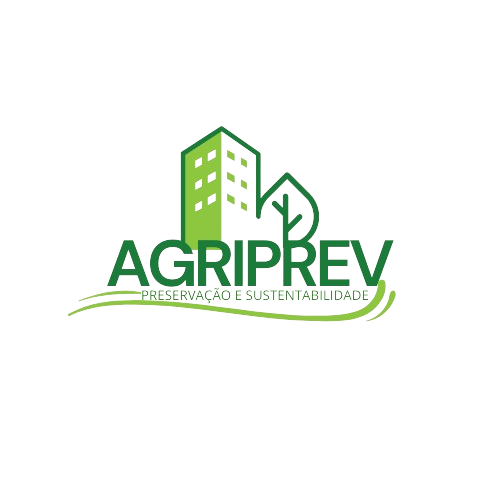
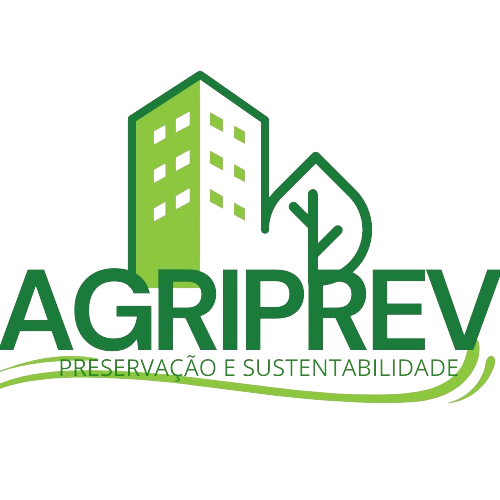
Estrutura do topo feita

Changed region(s): [[0.0, 0.12, 1.0, 0.81]]

diff --git a/index.html b/index.html
@@ -3,31 +3,58 @@
 <head>
     <meta charset="UTF-8">
     <meta name="viewport" content="width=device-width, initial-scale=1.0">
-    <title>AgriPrev</title>
-    <link rel="stylesheet" href="styles.css">
+    <title>AgriPrev - Tecnologia e economia</title>
+    <link rel="stylesheet" href="style.css">
+    <link rel="stylesheet" href="conteudo.css">
 </head>
 <body>
     <header>
-        <div>
-            <img src="../imagens/AGRIPREV-removebg-preview.png">
-        </div>
-        <div>
+        <video autoplay muted loop class="video-bg">
+            <source src="./agro.mp4" type="video/mp4">
+        </video>
 
+        <div id="menu">
+            <div class="logo">
+                <img src="./imagens/AGRIPREV-removebg-preview.png">
+            </div>
+
+            <div id="menu-t">
+                <ul>
+                    <li><a href="">Quem somos</a></li>
+                    <li><a href="">Tecnologia</a></li>
+                    <li><a href="">Agroróbotica</a></li>
+                    <li><a href="">Economia</a></li>
+                </ul>
+            </div>
         </div>
         
-    </header>
-    <main>
-        <section class="intro">
-            <h2>Preservação e Sustentabilidade</h2>
-            <p>Na AgriPrev, nos dedicamos à preservação do meio ambiente e à promoção da sustentabilidade. Nossa missão é proteger a natureza e educar a sociedade sobre práticas sustentáveis.</p>
+       <div class="txt">
+            <div>
+                <h1>DO CAMPO A CIDADE</h1>
+                <p>COLHENDO OPORTUNIDADES</p>
+            </div>
+            
+       </div>
+
+       
+   </header>
+
+<div id="conteudo">
+        <section>
+            <h1>Quem Somos</h1>
+            <div>
+                <p>Bem-vindo à Agriprev! Somos uma empresa dedicada a revolucionar a agricultura através da integração de robótica e tecnologia de ponta. Nosso objetivo é transformar a maneira como os alimentos são produzidos, trazendo soluções inovadoras que aumentam a eficiência, a sustentabilidade e a rentabilidade para os produtores rurais.</p>
+            </div>
+            
         </section>
-        <section class="plants">
-            <h2>Ter Plantas em Casa</h2>
-            <p>Ter plantas em casa não só melhora a qualidade do ar, mas também traz benefícios para a saúde mental. As plantas podem criar um ambiente mais relaxante e ajudar a reduzir o estresse.</p>
-        </section>
-    </main>
+</div> 
+         
+
     <footer>
-        <p>&copy; 2024 AgriPrev. Todos os direitos reservados.</p>
+        
     </footer>
+
+    
+
 </body>
 </html>

diff --git a/style.css b/style.css
@@ -1,0 +1,110 @@
+@import url('https://fonts.googleapis.com/css2?family=Poppins:ital,wght@0,100;0,200;0,300;0,400;0,500;0,600;0,700;0,800;0,900;1,100;1,200;1,300;1,400;1,500;1,600;1,700;1,800;1,900&display=swap');
+
+* {
+    margin: 0;
+    padding: 0;
+}
+
+body {
+    font-family: "Poppins", sans-serif;
+}
+
+
+header {
+   background-image: url(./agro.mp4);
+}
+
+.video-bg {
+    position: absolute;
+    -webkit-filter:brightness(50%);
+    filter:brightness(50%);
+    width: 100%;
+    height: 100%;
+    z-index: -100;
+    object-fit: cover;
+    background-image: url(./agro.mp4) no-repeat center;
+}
+
+#menu {
+    display: flex;
+    justify-content: space-between;
+}
+
+.logo img {
+    -webkit-filter:brightness(120%);
+    filter:brightness(120%);
+    margin-left: 50px;
+    width: 90px;
+    height: 80px;
+}
+
+header #menu {
+    margin-right: 30px;
+    transition: all 0.8s;
+    position: relative;
+}
+
+
+#menu-t ul {
+    display: flex;
+    justify-content: space-evenly;
+}   
+
+#menu-t ul li{
+    list-style: none;
+   padding: 8px;
+   display: inline-block;
+   line-height: 1em;
+   margin: 20px 8px;
+   cursor: pointer;
+   color: #fff;
+   position: relative;
+   z-index: 1;
+   border-bottom: 2px solid #009e61;
+    
+}
+
+#menu-t ul li::after{
+    content: '';
+    display: inline-block;
+    width: 0;
+    height: 100%;
+    position: absolute;
+    top: 0;
+    left: 0;
+    background: #009e61;
+    z-index: -1;
+    transition: width 0.5s ease-in-out;
+ }
+
+#menu-t ul li:hover::after{
+    width: 100%;
+ }
+
+#menu-t ul li a {
+    font-weight: bold;
+    text-decoration: none;
+    color: white;
+}
+
+
+
+.txt {
+    margin-top: 170px;
+}
+
+.txt h1 {
+    font-size: 50px;
+    line-height: 50px;
+    text-align: center;
+    position: relative;
+    font-weight: bold;
+    color: #009e61;
+}
+
+.txt p{
+    text-align: center;
+    position: relative;
+    font-weight: bold;
+    color: white ;
+}

diff --git a/conteudo.css b/conteudo.css
@@ -1,0 +1,3 @@
+#conteudo {
+    margin-top: 400px;
+}
